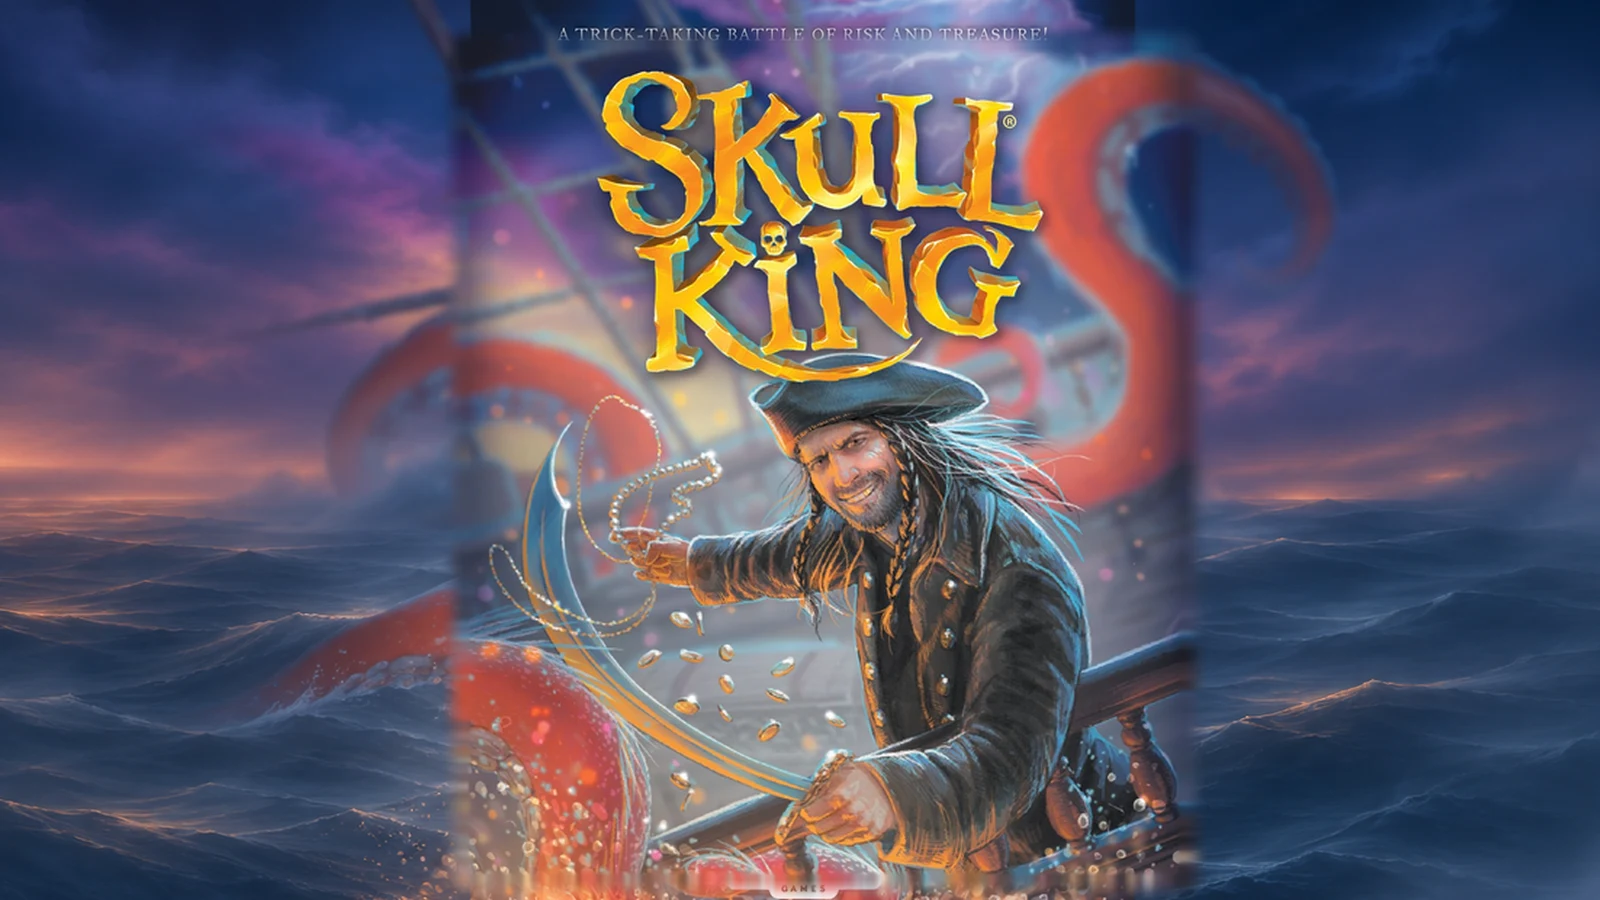
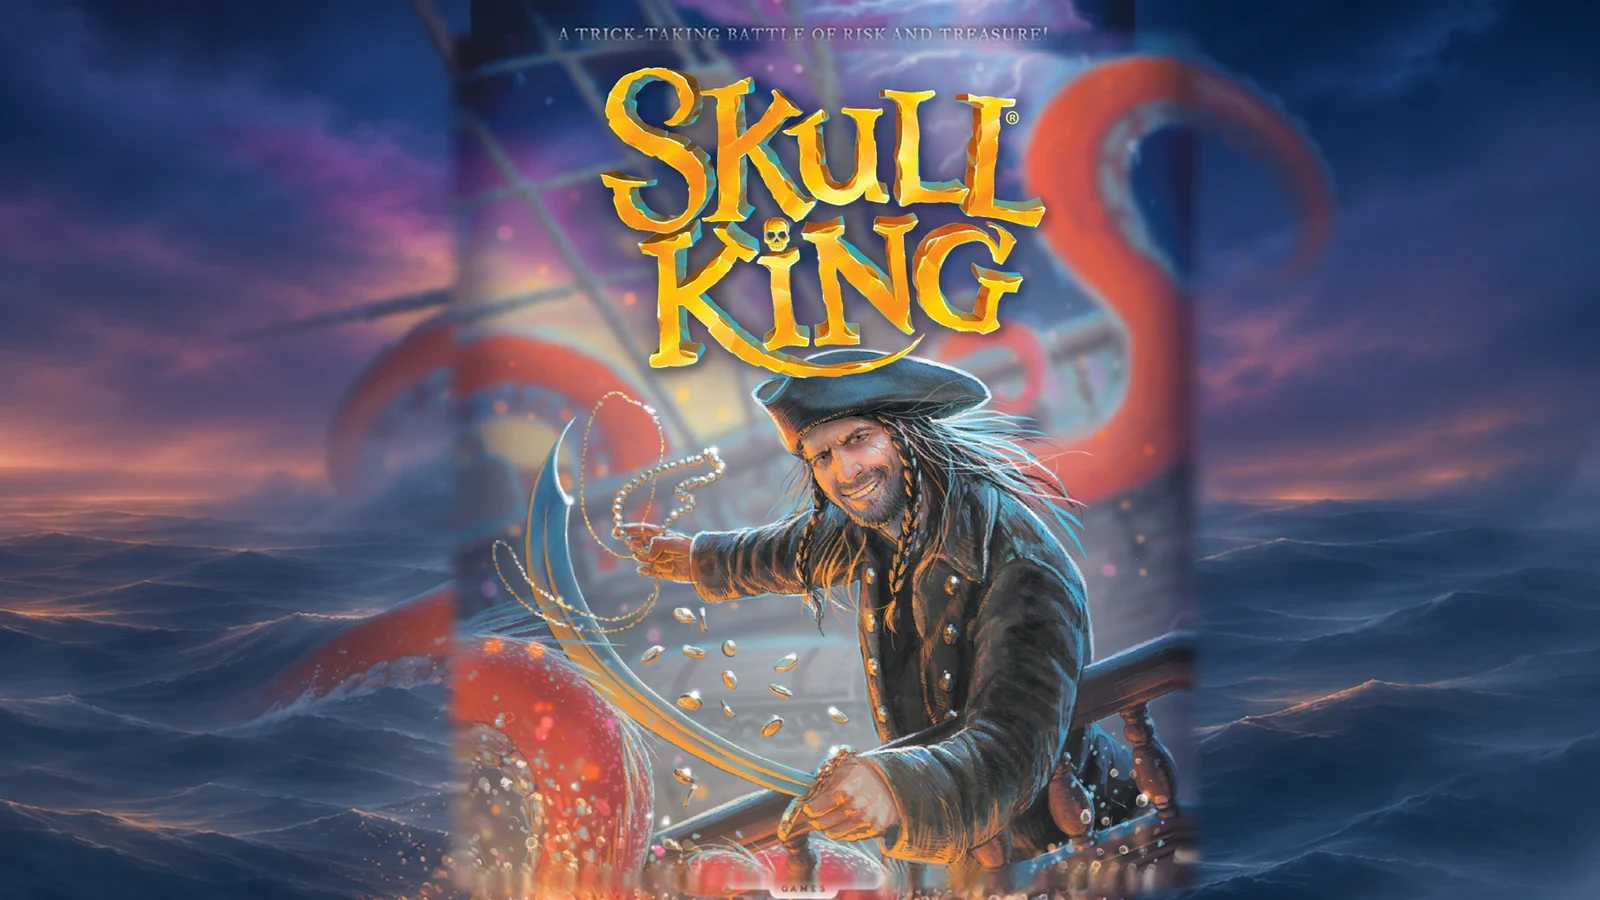
Finish all 17 hall covers and refine Skull King and Salem

Changed region(s): [[0.2812, 0.0622, 0.75, 0.9644], [0.7188, 0.6844, 0.75, 0.7156], [0.6875, 0.0622, 0.7188, 0.0933]]

diff --git a/docs/hall/COVER_HANDOFF.md b/docs/hall/COVER_HANDOFF.md
@@ -1,26 +1,34 @@
 # 大厅封面交接
 
-本批九款加大原版主体。卡带和横图分别构图，优先裁掉包装小字及无关边缘。外围按游戏使用原版色板绘制干净背景，或取上一批图像编辑所得的天空、海面和环境画面。女巫镇从照片提取金色字形，置于平面深色书封底。
+涵盖 17 款。卡带为 1200×900，宽图为 1600×900。原版游戏保留平面主画面与标识，站内游戏使用站内画风和素材。
 
-| 游戏 ID | 参考出处 | 文件 | 卡带字节 | 横图字节 |
-|---|---|---|---:|---:|
-| sk | [参考出处](https://uploads.comparajogos.com.br/img/7f7be480a7023ddc0b9365ee2fa83a73fa038d33.jpg) | [原图](ref/sk.jpg) · [对照](compare/sk.webp) | 117,040 | 146,090 |
-| du | [参考出处](https://github.com/zhangkeyu354-ctrl/nian/blob/b7380a3/apps/web/public/assets/dnup/cover.webp) | [原图](ref/du.jpg) · [对照](compare/du.webp) | 24,582 | 28,034 |
-| bf | [参考出处](https://cdn.pegasus.de/public/media/40/13/19/1757425275/4250231743856_BossFighterQR_EN_Pac_L_RGB.png?ts=1757425275) | [原图](ref/bf.jpg) · [对照](compare/bf.webp) | 119,738 | 159,978 |
-| ta | [参考出处](https://casualgamerevolution.b-cdn.net/sites/default/files/field/image/The%20Menace%20Among%20Us.jpg) | [原图](ref/ta.jpg) · [对照](compare/ta.webp) | 117,536 | 153,840 |
-| kb | [参考出处](https://store.asmodee.com/cdn/shop/products/HL8923-image0_2000.jpg?v=1691511323) | [原图](ref/kb.jpg) · [对照](compare/kb.webp) | 26,778 | 26,290 |
-| nd | [参考出处](https://media.cdnws.com/_i/184339/1087/490/87/cgtop01-box3d-010420.png) | [原图](ref/nd.jpg) · [对照](compare/nd.webp) | 59,850 | 61,200 |
-| ss | [参考出处](https://www.battlefieldbangkok.com/cdn/shop/files/soda-smugglers-with-deluxe-bottle-cap-tokens-board-games-bitewing-games-912064.webp?v=1751985061&width=1946) | [原图](ref/ss.jpg) · [对照](compare/ss.webp) | 111,262 | 109,682 |
-| rk | [参考出处](https://i.ebayimg.com/00/s/MTQ5OVgxNTAw/z/pEYAAOSwzOleZypW/%24_57.JPG?set_id=8800005007) | [原图](ref/rk.jpg) · [对照](compare/rk.webp) | 114,424 | 140,344 |
-| wt | [参考出处](https://static.wixstatic.com/media/bf497e_cbb756bd16a64c8188e47731cc66f7b9~mv2_d_3024_4032_s_4_2.jpg/v1/fill/w_980%2Ch_1307%2Cal_c%2Cq_85%2Cusm_0.66_1.00_0.01%2Cenc_avif%2Cquality_auto/bf497e_cbb756bd16a64c8188e47731cc66f7b9~mv2_d_3024_4032_s_4_2.jpg) | [原图](ref/wt.jpg) · [对照](compare/wt.webp) | 16,484 | 19,372 |
+| 游戏 ID | 来源 | 处理 | 对比 | 卡带字节 | 横图字节 |
+|---|---|---|---|---:|---:|
+| sk | [来源](https://boardgamegeek.com/image/8440531/skull-king) · [参考图](ref/sk.jpg) | 出版商上传的 BGG 1400×2000 平面图，保留已确认的版式和海面外扩。 | [对比](compare/sk.webp) | 118,600 | 156,056 |
+| du | [参考出处](https://github.com/zhangkeyu354-ctrl/nian/blob/b7380a3/apps/web/public/assets/dnup/cover.webp) · [参考图](ref/du.jpg) | 第一批已确认构图。 | [对比](compare/du.webp) | 24,582 | 28,034 |
+| bf | [参考出处](https://cdn.pegasus.de/public/media/40/13/19/1757425275/4250231743856_BossFighterQR_EN_Pac_L_RGB.png?ts=1757425275) · [参考图](ref/bf.jpg) | 第一批已确认构图。 | [对比](compare/bf.webp) | 119,738 | 159,978 |
+| ta | [参考出处](https://casualgamerevolution.b-cdn.net/sites/default/files/field/image/The%20Menace%20Among%20Us.jpg) · [参考图](ref/ta.jpg) | 第一批已确认构图。 | [对比](compare/ta.webp) | 117,536 | 153,840 |
+| kb | [参考出处](https://store.asmodee.com/cdn/shop/products/HL8923-image0_2000.jpg?v=1691511323) · [参考图](ref/kb.jpg) | 第一批已确认构图。 | [对比](compare/kb.webp) | 26,778 | 26,290 |
+| nd | [参考出处](https://media.cdnws.com/_i/184339/1087/490/87/cgtop01-box3d-010420.png) · [参考图](ref/nd.jpg) | 第一批已确认构图。 | [对比](compare/nd.webp) | 59,850 | 61,200 |
+| ss | [参考出处](https://www.battlefieldbangkok.com/cdn/shop/files/soda-smugglers-with-deluxe-bottle-cap-tokens-board-games-bitewing-games-912064.webp?v=1751985061&width=1946) · [参考图](ref/ss.jpg) | 第一批已确认构图。 | [对比](compare/ss.webp) | 111,262 | 109,682 |
+| rk | [参考出处](https://i.ebayimg.com/00/s/MTQ5OVgxNTAw/z/pEYAAOSwzOleZypW/%24_57.JPG?set_id=8800005007) · [参考图](ref/rk.jpg) | 第一批已确认构图。 | [对比](compare/rk.webp) | 114,424 | 140,344 |
+| wt | [参考出处](https://static.wixstatic.com/media/bf497e_cbb756bd16a64c8188e47731cc66f7b9~mv2_d_3024_4032_s_4_2.jpg/v1/fill/w_980%2Ch_1307%2Cal_c%2Cq_85%2Cusm_0.66_1.00_0.01%2Cenc_avif%2Cquality_auto/bf497e_cbb756bd16a64c8188e47731cc66f7b9~mv2_d_3024_4032_s_4_2.jpg) · [参考图](ref/wt.jpg) | 原金字沿用，加入低对比压纹与细烫金边。 | [对比](compare/wt.webp) | 18,706 | 21,934 |
+| xb | [来源](https://images.vocus.cc/9df26b96-87a0-4e22-a89d-2699e4fa2f1c.png) · [参考图](ref/xb.jpg) | 保留台湾版盒面，以图像编辑继续图纹和桌面。 | [对比](compare/xb.webp) | 116,474 | 151,972 |
+| tp | `apps/web/src/drawing/Covers.tsx` · [参考图](ref/tp.jpg) | 用站内封面卡片、铅笔和涂鸦构图。 | [对比](compare/tp.webp) | 59,592 | 79,508 |
+| fa | [来源](https://cdn.shoplightspeed.com/shops/668362/files/71107665/1652x1652x1/oink-games-oink-a-fake-artist-goes-to-new-york.jpg) · [参考图](ref/fa.jpg) | 保留原版印刷主体，外围补同玫红色。 | [对比](compare/fa.webp) | 23,648 | 24,178 |
+| rr | `apps/web/src/rr/Objects.tsx` · [参考图](ref/rr.jpg) | 站内物品图标重新排版，使用原有配色。 | [对比](compare/rr.webp) | 53,900 | 61,824 |
+| dm | [来源](https://boardgamegeek.com/image/8132886/dying-message) · [参考图](ref/dm.jpg) | 保留原版剪影和字形，外扩红蓝色场。 | [对比](compare/dm.webp) | 28,230 | 30,426 |
+| dbd | [来源](https://shop.deadbydaylight.com/cdn/shop/files/DBDBoardGameStandardEditionFrontTransparent.jpg?v=1758915478) · [参考图](ref/dbd.jpg) | 官方商店 Level 99 桌游标准版盒盖，校正正面，外围补同色场。图像外扩工具拒绝了该输入。 | [对比](compare/dbd.webp) | 115,520 | 113,728 |
+| ma | [来源](https://www.cmyk.games/products/magical-athlete) · [参考图](ref/ma.jpg) | 仓库现有 CMYK 版素材，保留横向原 logo，并补同色。 | [对比](compare/ma.webp) | 116,468 | 159,946 |
+| cn | [来源](https://imgix.bustle.com/uploads/image/2021/1/11/0a1d246a-f3f7-44a5-a16c-9802b1d50c48-codenames.jpg) · [参考图](ref/cn.jpg) | 保留原版双特工，外扩琥珀和酒红背景。 | [对比](compare/cn.webp) | 81,394 | 84,384 |
 
-拉密、脑洞量表、魔王试炼、卡里巴湖和女巫镇的参考包含包装透视或盒外背景，取正面后校正。卡里巴湖采用 Helvetiq 大象版；女巫镇采用 Salem 1692 深色书封版。反转王牌使用仓库内的对应封面，该来源的外部出处尚未独立核验。
+[17 张卡带总览，每张 170×128](compare/_cards-overview.webp)
 
-剩余八款沿用分支已有资源，待首批方向确认。
+《请留遗言》可核实的原版平面图为 409×731。文字和剪影来自原图，成品像素尺寸不代表来源分辨率提高。反转王牌的仓库封面来源尚未独立核验。
 
 ## 验收
 
-`npm run build` 通过。用 Playwright 的 iPhone 13 竖屏配置打开 `/?view=hall2`，18 张成品均通过浏览器解码、文件尺寸和体积检查。逐款对照原版，并排检查了九张 170×128 缩略图。女巫镇保留金色字形，去除照片里的书边、桌面和磨损纹理。可查看九张卡带的 [170×128 总览](compare/_cards-overview.webp)。本批范围为九款。
+`npm run build` 通过。Playwright 使用 iPhone 13 竖屏视口打开 `/?view=hall2`，34 张图均通过浏览器解码、尺寸和体积检查。
 
 - 大厅：[首屏](cover-screens/01-top.png)、[中段](cover-screens/02-middle.png)、[底部](cover-screens/03-bottom.png)
-- 详情：[骷髅王](cover-screens/detail-sk.png)、[脑洞量表](cover-screens/detail-nd.png)、[拉密](cover-screens/detail-rk.png)
+- 详情：[骷髅王](cover-screens/detail-sk.png)、[女巫镇](cover-screens/detail-wt.png)、[黎明杀机](cover-screens/detail-dbd.png)
